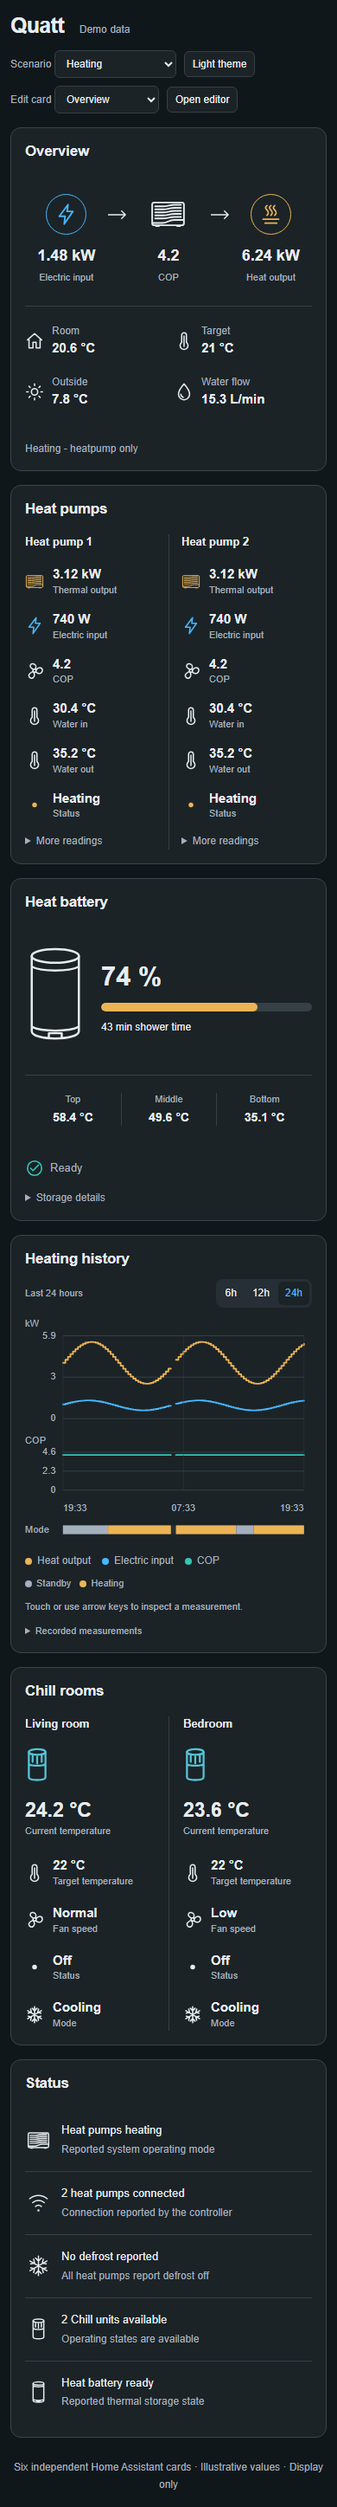
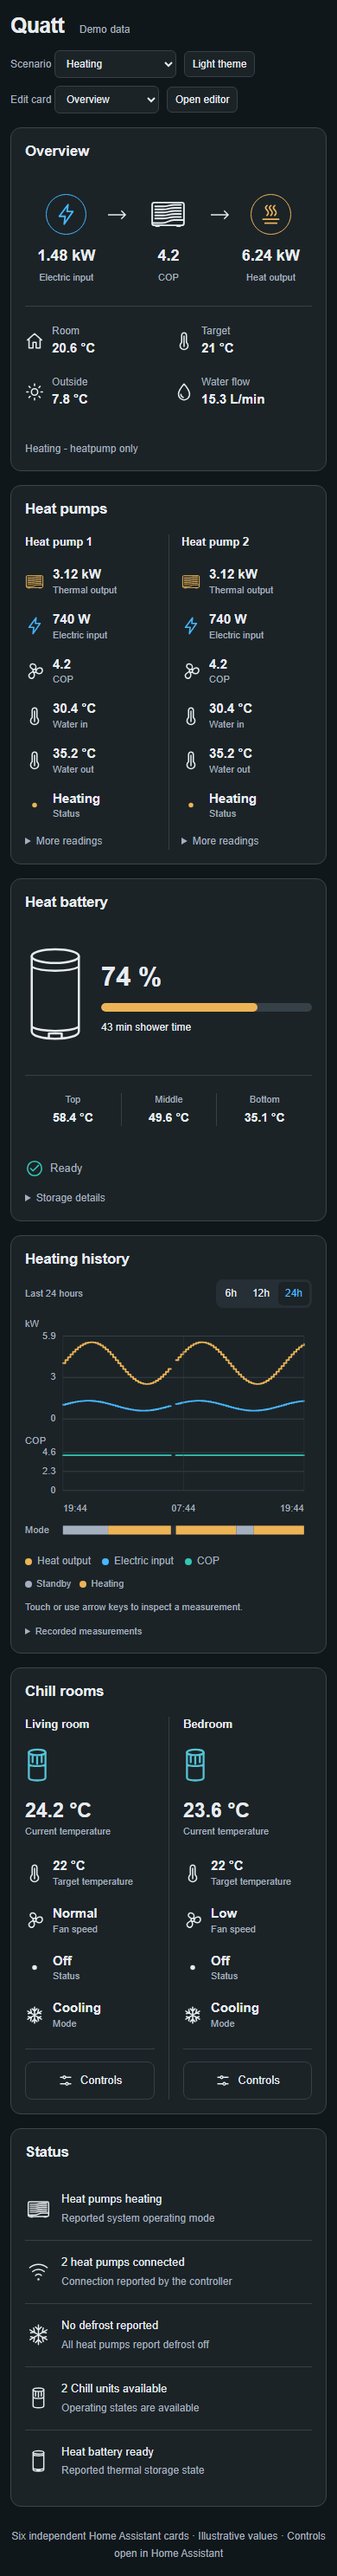
Add per-unit access to native Chill controls

diff --git a/src/cards/chill-card.ts b/src/cards/chill-card.ts
@@ -16,14 +16,35 @@ export class QuattChillCard extends BaseCard {
     .rooms.three .device-field>.icon{display:none}.rooms.three .room{padding:0 9px}.rooms.three .row-start{padding-left:0}.rooms.three .temperature .value{font-size:19px}
     .rooms.single.columns h3{text-align:center}.rooms.single.columns .summary{display:flex;justify-content:center;align-items:center;gap:16px;margin:20px 0 26px}.rooms.single.columns .unit-icon{margin:0}.rooms.single.columns .fields{grid-template-columns:repeat(2,minmax(0,1fr));gap:22px 18px}
     ha-card.single-device{min-height:0}
+    .controls{grid-column:1/-1;margin-top:20px;padding-top:14px;border-top:1px solid var(--qc-line)}
+    .control-button{display:flex;align-items:center;justify-content:center;gap:8px;width:100%;min-height:44px;border:1px solid var(--qc-line);border-radius:8px;background:transparent;font-size:13px;font-weight:500;padding:8px;overflow-wrap:anywhere}
+    .control-button:hover:not(:disabled){background:var(--qc-subtle)}.control-button .icon{width:18px;height:18px}
+    .control-note{margin:8px 0 0;font-size:11px;color:var(--qc-secondary);text-align:center;overflow-wrap:anywhere}
+    .rooms.three .control-button .icon{display:none}
     @container(max-width:350px){.room{padding:0 10px}.device-field{gap:8px}.device-field .value{font-size:14px}.device-field .label{font-size:10px}.temperature .value{font-size:20px}}
   `];
+  private controls(d:QuattDevice) {
+    if(this.config.show_controls===false)return nothing;
+    const entity=d.climateEntityId&&this.hass.states[d.climateEntityId];
+    const available=d.available&&entity&&!['unknown','unavailable'].includes(entity.state);
+    return html`<div class="controls">${d.climateEntityId?html`
+      <button class="control-button" ?disabled=${!available} aria-label=${`Control ${d.name}`} aria-haspopup="dialog"
+        @click=${()=>this.openControls(d.id)}>${icon('controls')}<span>Controls</span></button>
+      ${!available?html`<p class="control-note">Unit unavailable</p>`:nothing}
+    `:html`<p class="control-note">Controls require one enabled Chill climate entity.</p>`}</div>`;
+  }
+  private openControls(deviceId:string) {
+    const d=this.snapshot.chills.find(device=>device.id===deviceId);
+    const entity=d?.climateEntityId&&this.hass.states[d.climateEntityId];
+    if(this.config.show_controls===false||!d?.available||!entity||['unknown','unavailable'].includes(entity.state))return;
+    this.dispatchEvent(new CustomEvent('hass-more-info',{detail:{entityId:entity.entity_id},bubbles:true,composed:true}));
+  }
   private room(d:QuattDevice,index:number,columns:number) {
     const m=d.metrics,status=m.status?.text||(!d.available?'Unavailable':'Status unavailable');
     return html`<article class=${`room${index%columns===0?' row-start':''}`} aria-label=${d.name}><h3>${d.name}</h3><div class="summary"><span class="unit-icon">${icon('chill')}</span>
       <div class="temperature">${this.value(m.roomTemperature,`${d.name} temperature`)}<span class="label">Current temperature</span></div></div><div class="fields">
       ${this.deviceField('Target temperature',m.targetTemperature,'thermometer')}${this.deviceField('Fan speed',m.fanMode,'fan')}${this.deviceField('Status',{...m.status,value:null,text:status,unit:''},d.available?'dot':'warning')}${this.deviceField('Mode',m.mode,m.mode?.text?.toLowerCase().includes('heat')?'heat':'snow')}
-      </div>${this.on(m.waterWarning)?html`<p class="warning">Water tank needs attention</p>`:nothing}</article>`;
+      </div>${this.on(m.waterWarning)?html`<p class="warning">Water tank needs attention</p>`:nothing}${this.controls(d)}</article>`;
   }
   protected render() {
     const rooms=this.snapshot.chills.filter(d=>!this.config.device||d.id===this.config.device),columns=Math.min(3,Math.max(1,rooms.length));

diff --git a/tests/browser/cards.spec.ts b/tests/browser/cards.spec.ts
@@ -4,6 +4,31 @@ import type {CardConfig,HomeAssistant} from '../../src/types';
 import type {DemoDiagnostics} from '../../src/demo/fixtures';
 type Card=HTMLElement&{hass:HomeAssistant&{__demoDiagnostics:DemoDiagnostics};setConfig(c:CardConfig):void;getCardSize():number;getGridOptions():unknown};
 const names=['overview','heat-pump','heat-battery','history','chill','status'];
+test('Chill controls open the correct native climate panel by mouse and keyboard without service calls',async({page})=>{
+ await open(page);
+ await page.evaluate(()=>document.addEventListener('hass-more-info',event=>{document.body.dataset.entity=(event as CustomEvent).detail.entityId;}));
+ const card=page.locator('quatt-chill-card');
+ await card.getByRole('button',{name:'Control Living room',exact:true}).click();
+ await expect(page.locator('body')).toHaveAttribute('data-entity','climate.demo_demo-chill-uuid-1_chills');
+ const bedroom=card.getByRole('button',{name:'Control Bedroom',exact:true});await bedroom.focus();await bedroom.press('Enter');
+ await expect(page.locator('body')).toHaveAttribute('data-entity','climate.demo_demo-chill-uuid-2_chills');
+ expect(await card.evaluate(e=>(e as Card).hass.__demoDiagnostics.services)).toEqual([]);
+ await page.evaluate(()=>window.demo.showEditor('chill'));
+ await page.locator('quatt-card-editor').getByLabel('Unit controls',{exact:true}).selectOption('false');
+ await expect(card.getByRole('button',{name:/^Control /})).toHaveCount(0);
+ expect(await page.evaluate(()=>window.demo.getConfig('chill')?.show_controls)).toBe(false);
+ await page.locator('quatt-card-editor').getByLabel('Unit controls',{exact:true}).selectOption('true');
+ await expect(card.getByRole('button',{name:/^Control /})).toHaveCount(2);
+});
+test('Chill controls disable for offline or missing climate state while retaining readings',async({page})=>{
+ await open(page);await page.evaluate(()=>window.demo.setScenario('offline'));
+ const card=page.locator('quatt-chill-card');
+ await expect(card.getByRole('button',{name:'Control Bedroom',exact:true})).toBeDisabled();
+ await expect(card.getByRole('button',{name:'Control Living room',exact:true})).toBeEnabled();
+ await card.evaluate(e=>{const card=e as Card;const states={...card.hass.states};delete states['climate.demo_demo-chill-uuid-1_chills'];card.hass={...card.hass,states};});
+ await expect(card.getByRole('button',{name:'Control Living room',exact:true})).toBeDisabled();
+ await expect(card.getByRole('heading',{name:'Living room',exact:true})).toBeVisible();
+});
 async function open(page:Page){await page.goto('/');await expect(page.locator('quatt-history-card').getByRole('slider')).toBeVisible();}
 
 for(const viewport of [{name:'desktop',width:1440,height:1050},{name:'tablet',width:820,height:1100},{name:'phone',width:390,height:844}])for(const theme of ['light','dark'] as const){

diff --git a/src/demo/main.ts b/src/demo/main.ts
@@ -10,7 +10,7 @@ const types=names.map(name=>`custom:quatt-${name}-card` as CardType);
 const configs=new Map<CardType,CardConfig>();
 let demo=createDemo();
 
-document.body.innerHTML=`<main><header class="demo-header"><div class="brand"><h1>Quatt</h1><span class="demo-label">Demo data</span></div><div class="demo-controls"><label>Scenario <select id="scenario"><option value="heating">Heating</option><option value="single">Single units</option><option value="idle">Standby</option><option value="cooling">Chill cooling</option><option value="defrost">Defrost</option><option value="offline">Device offline</option><option value="partial">Partial data</option><option value="missing">Integration missing</option><option value="many">Five Chill rooms</option></select></label><button id="theme">Dark theme</button><label>Edit card <select id="edit-card">${names.map((name,i)=>`<option value="${name}">${titles[i]}</option>`).join('')}</select></label><button id="edit">Open editor</button></div></header><section class="card-grid" aria-label="Quatt cards"></section><section class="editor-panel" hidden><div class="editor-heading"><h2>Card editor</h2><button id="close-editor">Close editor</button></div><div id="editor-mount"></div></section><footer>Six independent Home Assistant cards · Illustrative values · Display only</footer></main>`;
+document.body.innerHTML=`<main><header class="demo-header"><div class="brand"><h1>Quatt</h1><span class="demo-label">Demo data</span></div><div class="demo-controls"><label>Scenario <select id="scenario"><option value="heating">Heating</option><option value="single">Single units</option><option value="idle">Standby</option><option value="cooling">Chill cooling</option><option value="defrost">Defrost</option><option value="offline">Device offline</option><option value="partial">Partial data</option><option value="missing">Integration missing</option><option value="many">Five Chill rooms</option></select></label><button id="theme">Dark theme</button><label>Edit card <select id="edit-card">${names.map((name,i)=>`<option value="${name}">${titles[i]}</option>`).join('')}</select></label><button id="edit">Open editor</button></div></header><section class="card-grid" aria-label="Quatt cards"></section><section class="editor-panel" hidden><div class="editor-heading"><h2>Card editor</h2><button id="close-editor">Close editor</button></div><div id="editor-mount"></div></section><footer>Six independent Home Assistant cards · Illustrative values · Controls open in Home Assistant</footer></main>`;
 const grid=document.querySelector('.card-grid')!;
 const cardElements=new Map<CardType,DemoCard>();
 for(const type of types) {

diff --git a/tests/data/chill-controls.test.ts b/tests/data/chill-controls.test.ts
@@ -1,0 +1,43 @@
+import { describe, expect, it } from 'vitest';
+import { buildSnapshot } from '../../src/data';
+import { createDemo } from '../../src/demo/fixtures';
+import type { CardConfig } from '../../src/types';
+
+const config: CardConfig={type:'custom:quatt-chill-card'};
+describe('Chill control targets',()=>{
+  it('keeps each renamed climate entity bound to its registry device',()=>{
+    const {hass,registry}=createDemo();
+    const entry=registry.entities.find(e=>e.device_id==='demo-chill-1'&&e.entity_id.startsWith('climate.'))!;
+    const previous=entry.entity_id;entry.entity_id='climate.renamed_room';
+    hass.states[entry.entity_id]={...hass.states[previous],entity_id:entry.entity_id};delete hass.states[previous];
+    const rooms=buildSnapshot(hass,registry,config).chills;
+    expect(rooms[0].climateEntityId).toBe('climate.renamed_room');
+    expect(rooms[1].climateEntityId).not.toBe(rooms[0].climateEntityId);
+  });
+  it('supports indexed legacy Chill climate keys',()=>{
+    const {hass,registry}=createDemo();
+    registry.entities.filter(e=>e.entity_id.startsWith('climate.')).forEach((e,i)=>{e.unique_id=`${e.config_entry_id}chills.${i}`;});
+    expect(buildSnapshot(hass,registry,config).chills.every(d=>d.climateEntityId?.startsWith('climate.'))).toBe(true);
+  });
+  it('does not use disabled, foreign or ambiguous climate targets',()=>{
+    for(const scenario of ['disabled','foreign','duplicate'] as const){
+      const {hass,registry}=createDemo();
+      const entry=registry.entities.find(e=>e.device_id==='demo-chill-1'&&e.entity_id.startsWith('climate.'))!;
+      if(scenario==='disabled')entry.disabled_by='user';
+      if(scenario==='foreign')entry.platform='other';
+      if(scenario==='duplicate')registry.entities.push({...entry,entity_id:'climate.duplicate'});
+      expect(buildSnapshot(hass,registry,config).chills[0].climateEntityId).toBeUndefined();
+    }
+  });
+  it('reading overrides cannot redirect controls to another unit',()=>{
+    const {hass,registry}=createDemo();
+    const before=buildSnapshot(hass,registry,config).chills;
+    const after=buildSnapshot(hass,registry,{...config,device:before[0].id,entities:{targetTemperature:before[1].climateEntityId!}});
+    expect(after.chills[0].climateEntityId).toBe(before[0].climateEntityId);
+  });
+  it('keeps offline status authoritative even with cached climate readings',()=>{
+    const {hass,registry}=createDemo('offline');
+    const room=buildSnapshot(hass,registry,config).chills[1];
+    expect(room.climateEntityId).toBeTruthy();expect(room.available).toBe(false);
+  });
+});

diff --git a/src/editor.ts b/src/editor.ts
@@ -105,7 +105,7 @@ export class QuattCardEditor extends LitElement {
     }
   }
 
-  private updateConfig(key: keyof CardConfig, value: string | number | undefined) {
+  private updateConfig(key: keyof CardConfig, value: string | number | boolean | undefined) {
     if (!this.config) return;
     const config = { ...this.config };
     if (key === 'integration_id' && value !== config.integration_id) delete config.device;
@@ -194,6 +194,12 @@ export class QuattCardEditor extends LitElement {
           </select>
           <small id="layout-help">Columns shows up to three units per row. Additional units wrap onto a new row.</small>
         </label>` : nothing}
+      ${isChill ? html`<label class="field" for="show-controls"><span>Unit controls</span>
+        <select id="show-controls" aria-label="Unit controls" @change=${(event:Event)=>this.updateConfig('show_controls',this.inputValue(event)==='true')}>
+          <option value="true" .selected=${config.show_controls!==false}>Show Controls button</option>
+          <option value="false" .selected=${config.show_controls===false}>Hide controls (display only)</option>
+        </select><small>Open each unit’s Home Assistant climate panel for temperature, mode, and fan controls.</small>
+      </label>`:nothing}
       ${isHistory ? html`<label class="field" for="hours"><span id="hours-label">History range</span>
         <select id="hours" aria-labelledby="hours-label" @change=${(event: Event) => this.updateConfig('hours', Number(this.inputValue(event)))}>
           ${[6, 12, 24, 48].map(hours => html`<option value=${hours} .selected=${(config.hours ?? 24) === hours}>Last ${hours} hours</option>`)}

diff --git a/src/types.ts b/src/types.ts
@@ -27,7 +27,7 @@ export interface HomeAssistant {
 export type CardType = 'custom:quatt-overview-card' | 'custom:quatt-history-card' | 'custom:quatt-heat-pump-card' | 'custom:quatt-heat-battery-card' | 'custom:quatt-chill-card' | 'custom:quatt-status-card';
 export interface CardConfig {
   type: CardType; title?: string; integration_id?: string; device?: string;
-  entities?: Record<string, string>; hours?: number; layout?: 'columns' | 'stacked' | 'compact';
+  entities?: Record<string, string>; hours?: number; layout?: 'columns' | 'stacked' | 'compact'; show_controls?: boolean;
 }
 export type MetricRole = 'heatPower' | 'electricPower' | 'cop' | 'roomTemperature' | 'targetTemperature' |
   'outdoorTemperature' | 'supplyTemperature' | 'returnTemperature' | 'flowRate' |
@@ -38,7 +38,7 @@ export type MetricRole = 'heatPower' | 'electricPower' | 'cop' | 'roomTemperatur
 export interface Reading { value: number | null; text: string | null; unit: string; entityId?: string; }
 export type Metrics = Partial<Record<MetricRole, Reading>>;
 export type DeviceKind = 'system' | 'thermostat' | 'heat-pump' | 'heat-battery' | 'heat-charger' | 'chill';
-export interface QuattDevice { id: string; name: string; kind: DeviceKind; available: boolean; metrics: Metrics; }
+export interface QuattDevice { id: string; name: string; kind: DeviceKind; available: boolean; metrics: Metrics; climateEntityId?: string; }
 export interface StatusRow { key: string; title: string; detail?: string; tone: Tone; icon: string; entityId?: string; }
 export interface Snapshot {
   error?: string; warnings: string[]; installationId?: string; installations: { id: string; name: string }[];

diff --git a/src/data/index.ts b/src/data/index.ts
@@ -64,7 +64,11 @@ export function buildSnapshot(hass: HomeAssistant, registry: RegistryData, confi
     return [...new Set(candidates.map(source => source.deviceId))].map(id => {
       const registryDevice = registry.devices.find(device => device.id === id);
       const metrics = readMetrics(hass, candidates.filter(source => source.deviceId === id), snapshot.warnings);
-      return { id, name: registryDevice?.name_by_user || registryDevice?.name || kind.replaceAll('-', ' '), kind, available: Object.values(metrics).some(meaningful) && metrics.connected?.value !== 0 && metrics.status?.text?.toLowerCase() !== 'offline', metrics };
+      // Control targets come only from exact, device-scoped integration discovery.
+      // A reading override must never retarget a control to another room.
+      const climates = candidates.filter(source => source.deviceId === id && source.kind === 'chill' && source.entity.entity_id.startsWith('climate.'));
+      const climateEntityId = climates.length === 1 ? climates[0].entity.entity_id : undefined;
+      return { id, name: registryDevice?.name_by_user || registryDevice?.name || kind.replaceAll('-', ' '), kind, available: Object.values(metrics).some(meaningful) && metrics.connected?.value !== 0 && metrics.status?.text?.toLowerCase() !== 'offline', metrics, climateEntityId };
     });
   }
   snapshot.heatPumps = devices('heat-pump'); snapshot.chills = devices('chill');

diff --git a/src/index.ts b/src/index.ts
@@ -11,7 +11,7 @@ const cards=[
   ['quatt-history-card',QuattHistoryCard,'Quatt Performance','Measured heat, electricity and COP over time.'],
   ['quatt-heat-pump-card',QuattHeatPumpCard,'Quatt Heat Pumps','Compare heat-pump readings and operating states.'],
   ['quatt-heat-battery-card',QuattHeatBatteryCard,'Quatt Heat Battery','Thermal charge, shower time and storage temperatures.'],
-  ['quatt-chill-card',QuattChillCard,'Quatt Chill Rooms','Room temperatures, targets and reported Chill states.'],
+  ['quatt-chill-card',QuattChillCard,'Quatt Chill Rooms','Room readings and access to native Chill controls.'],
   ['quatt-status-card',QuattStatusCard,'Quatt Status','Operating mode, connectivity, protection and alerts.'],
 ] as const;
 declare global { interface Window { customCards?: {type:string;name:string;description:string;preview:boolean}[]; } }
@@ -21,4 +21,4 @@ for(const [type,element,name,description] of cards) {
   if(!window.customCards.some(card=>card.type===type)) window.customCards.push({type,name,description,preview:true});
 }
 if(!customElements.get('quatt-card-editor')) customElements.define('quatt-card-editor',QuattCardEditor);
-console.info('QUATT CARDS 0.1.1 · Read-only heating insights');
+console.info('QUATT CARDS 0.2.0 · Heating insights and Chill controls');

diff --git a/src/ui.ts b/src/ui.ts
@@ -61,6 +61,7 @@ export function icon(name: string) {
   const aliases:Record<string,string>={'mdi:heat-pump':'pump','mdi:lan-disconnect':'warning','mdi:lan-connect':'connection','mdi:volume-low':'info','mdi:snowflake-melt':'snow','mdi:speedometer-slow':'shield','mdi:alert-circle-outline':'warning','mdi:water-alert-outline':'water','mdi:battery-charging':'tank','mdi:shower':'water','mdi:information-outline':'info'};
   name=aliases[name]||name;
   const paths: Record<string, unknown> = {
+    controls: svg`<path d="M4 7h4m4 0h8M4 17h8m4 0h4"/><circle cx="10" cy="7" r="2"/><circle cx="14" cy="17" r="2"/>`,
     pump: svg`<rect x="1.5" y="4.5" width="21" height="15" rx="1.4"/><path d="M3.5 7h5c4 0 4-1 8-1h4M3.5 9h5c4 0 4-1 8-1h4M3.5 11h5c4 0 4-1 8-1h4M3.5 13h5c4 0 4-1 8-1h4M3.5 15h5c4 0 4-1 8-1h4M2 18h6c4 0 4-2 8-2h6M4 20h2m12 0h2"/>`,
     chill: svg`<ellipse cx="12" cy="3.5" rx="5.5" ry="1.8"/><path d="M6.5 3.5v16.7c0 2.4 11 2.4 11 0V3.5M6.5 11.5c2 1.4 9 1.4 11 0M9 6v4m3-3.5V11m3-5v4"/>`,
     electric: svg`<path d="m14 2-9 12h6l-1 8 9-13h-6z"/>`,

diff --git a/src/base-card.ts b/src/base-card.ts
@@ -55,6 +55,7 @@ export abstract class BaseCard extends LitElement {
     if (!config || !config.type?.startsWith('custom:quatt-')) throw new Error('Select a Quatt card type.');
     if (config.entities && (typeof config.entities !== 'object' || Array.isArray(config.entities))) throw new Error('entities must map data roles to entity IDs.');
     if (config.layout && !['columns','stacked','compact'].includes(config.layout)) throw new Error('layout must be columns, stacked, or compact.');
+    if (config.show_controls !== undefined && typeof config.show_controls !== 'boolean') throw new Error('show_controls must be true or false.');
     if (config.hours !== undefined && (!Number.isFinite(config.hours) || config.hours < 1 || config.hours > 48)) throw new Error('hours must be between 1 and 48.');
     this.config = { ...config, entities: { ...config.entities } };
     this.invalidate();

diff --git a/README.md b/README.md
@@ -1,6 +1,6 @@
 # Quatt Cards
 
-Compact, display-only Home Assistant dashboard cards for the [Quatt integration by marcoboers](https://github.com/marcoboers/home-assistant-quatt). The collection continues the typography, compact layouts, inline charts, and Home Assistant theme support of [Omnibattery Cards](https://github.com/thomasvt1/omnibattery-cards), with visual inspiration from [EMHASS Companion](https://github.com/smefa/emhass-ha-companion).
+Compact Home Assistant dashboard cards for the [Quatt integration by marcoboers](https://github.com/marcoboers/home-assistant-quatt). The collection continues the typography, compact layouts, inline charts, and Home Assistant theme support of [Omnibattery Cards](https://github.com/thomasvt1/omnibattery-cards), with visual inspiration from [EMHASS Companion](https://github.com/smefa/emhass-ha-companion).
 
 [![CI](https://github.com/thomasvt1/quatt-cards/actions/workflows/ci.yml/badge.svg)](https://github.com/thomasvt1/quatt-cards/actions/workflows/ci.yml) [![Release](https://img.shields.io/github/v/release/thomasvt1/quatt-cards)](https://github.com/thomasvt1/quatt-cards/releases/latest)
 
@@ -12,12 +12,12 @@ Compact, display-only Home Assistant dashboard cards for the [Quatt integration 
 | Performance history | `custom:quatt-history-card` | Recorded heat output, electrical input, COP, and a slim operating-mode timeline over the last 6, 12, 24, or 48 hours. |
 | Heat pumps | `custom:quatt-heat-pump-card` | All heat pumps or one selected unit, with power, temperatures, and available operating details. |
 | Heat battery | `custom:quatt-heat-battery-card` | Thermal charge level, available shower time, temperatures, and available charging information. |
-| Chill | `custom:quatt-chill-card` | All Chill units or one selected unit, with available temperature, fan, and operating information. |
+| Chill | `custom:quatt-chill-card` | All Chill units or one selected unit, with available temperature, fan, operating information, and native controls. |
 | System status | `custom:quatt-status-card` | Reported operating state, connectivity, defrost, limits, and available faults. |
 
 All cards have a visual configuration editor, card-picker preview, YAML configuration, and Sections/Masonry sizing. Heat pump and Chill collections support three styles: **C · Columns** by default, **A · Stacked**, and **B · Compact**. Columns uses at most three units per row; further units wrap onto new rows. A single visible unit uses two reading columns across the card.
 
-Interactions inspect chart readings or open Home Assistant sensor details. Cards do not call services, change temperatures, switch modes, or operate equipment.
+Interactions inspect chart readings or open Home Assistant sensor details. Each Chill unit also has a **Controls** button that opens its native Home Assistant climate panel. Use that panel to change target temperature, heating/cooling/off mode, and fan speed. Opening it does not change the unit; commands are handled by Home Assistant when you use its controls. The other cards remain display-only.
 
 ![The six Quatt cards in a light Home Assistant theme, using synthetic readings](docs/screenshots/desktop-light.png)
 
@@ -48,14 +48,14 @@ HACS normally registers the module automatically. If your resources are managed 
 
 1. Build the asset with `npm ci` and `npm run build`.
 2. Copy `dist/quatt-cards.js` to `/config/www/quatt-cards.js` on Home Assistant.
-3. Add a dashboard resource with URL `/local/quatt-cards.js?v=0.1.1` and resource type **JavaScript Module**.
+3. Add a dashboard resource with URL `/local/quatt-cards.js?v=0.2.0` and resource type **JavaScript Module**.
 4. Reload the browser. In **Add card**, search for **Quatt**.
 
 For dashboards with YAML-managed resources:
 
 ```yaml
 resources:
-  - url: /local/quatt-cards.js?v=0.1.1
+  - url: /local/quatt-cards.js?v=0.2.0
     type: module
 ```
 
@@ -95,6 +95,7 @@ layout: columns
 | `title` | All | Card's own title | Optional heading. |
 | `integration_id` | All | Automatic | Quatt config-entry ID selected in the visual editor. |
 | `device` | Heat pumps, Chill | All units | Restrict the card to one device registry ID. |
+| `show_controls` | Chill | `true` | Show a Controls button for each unit. Set `false` to keep the card display-only. |
 | `layout` | Heat pumps, Chill | `columns` | `columns`, `stacked`, or `compact`. |
 | `hours` | History | `24` | Recorded window: `6`, `12`, `24`, or `48`. |
 | `entities` | All | Automatic | Map supported metric roles to explicit sensor entity IDs. |
@@ -153,3 +154,7 @@ Keep personal Home Assistant identifiers, credentials, raw diagnostics, and loca
 Licensed **AGPL-3.0-or-later**; see [LICENSE](LICENSE). Derived frontend patterns from [Omnibattery Cards](https://github.com/thomasvt1/omnibattery-cards) are retained under that license. [EMHASS Companion](https://github.com/smefa/emhass-ha-companion) supplied visual inspiration. [marcoboers/home-assistant-quatt](https://github.com/marcoboers/home-assistant-quatt) supplies the integration and entity contract; this frontend is a separate project and is not an official Quatt product.
 
 Bundled Lit license notices are preserved in [THIRD_PARTY_NOTICES.txt](THIRD_PARTY_NOTICES.txt) and the generated JavaScript asset.
+
+### Chill controls
+
+Controls are discovered from each device’s enabled Quatt climate entity, independently of reading overrides. They work for a selected unit or all units in the card. The integration’s Quatt Remote Mobile API configuration is required. Missing or ambiguous climate entities show an explanation; offline units have disabled buttons. Home Assistant supplies the supported modes, fan options, temperature limits, permissions, and service error handling. No command is sent when opening the panel.

diff --git a/docs/validation.md b/docs/validation.md
@@ -3,8 +3,8 @@
 Local checks on 9 October 2026 passed with Node.js 24:
 
 - TypeScript checking and Vite production build.
-- 37 unit tests covering discovery, unit conversion, source priority, status, history normalization and shared registry subscriptions.
-- 20 Chromium browser tests covering all six cards and their editors, light/dark themes, desktop (1440px), tablet (820px), phone (390px), keyboard and touch inspection, live updates during inspection, missing/offline telemetry, read-only sensor details, wrapping after three units, and single-unit installation/selection layouts in all three styles. Geometry assertions also check centered heat-battery temperatures and status icons.
+- 42 unit tests covering discovery, unit conversion, source priority, status, history normalization and shared registry subscriptions.
+- 22 Chromium browser tests covering all six cards and their editors, light/dark themes, desktop (1440px), tablet (820px), phone (390px), keyboard and touch inspection, live updates during inspection, missing/offline telemetry, read-only sensor details, wrapping after three units, and single-unit installation/selection layouts in all three styles. Geometry assertions also check centered heat-battery temperatures and status icons.
 
 The browser suite renders actual Lit components using synthetic Home Assistant fixtures. It checks card overflow and page errors. Shared requests and subscription cleanup are tested. Screenshots in `docs/screenshots` come from that fixture preview, not a household dashboard.
 
@@ -15,3 +15,5 @@ Release v0.1.1 was also installed through HACS on 9 October 2026. The registered
 Visual review compares card composition and physical-device outlines with approved mockup C v3. The mockup's Home Assistant navigation and duplicated phone inset are host context. No pixel-difference or font-matching gate is claimed for the whole showcase image.
 
 The fresh visual review found no concrete UI repairs: topology, device outlines, chart instruments, theme inheritance, and compact comparison columns matched the approved direction. A follow-up measured comparison of six card crops reported drift (scores 0.6323–0.72), with differing card widths normalized by stretching. These diagnostic scores do not establish pixel fidelity. The review's strict reproduction-workflow evidence finding remains open; the spec/font/build-phase gates have not passed. This limitation is separate from the passing functional tests.
+
+Chill control-access tests cover renamed and indexed legacy climate entities, disabled/foreign/ambiguous targets, override isolation, keyboard activation, per-unit event targets, the editor visibility option, and offline/missing climate state. Opening a control panel emits no service calls.
